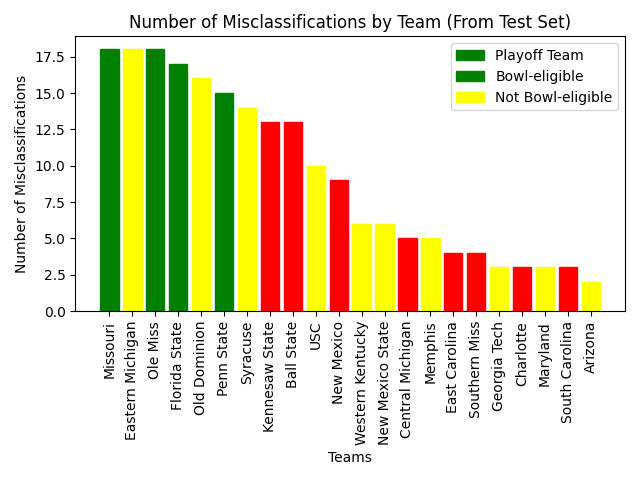
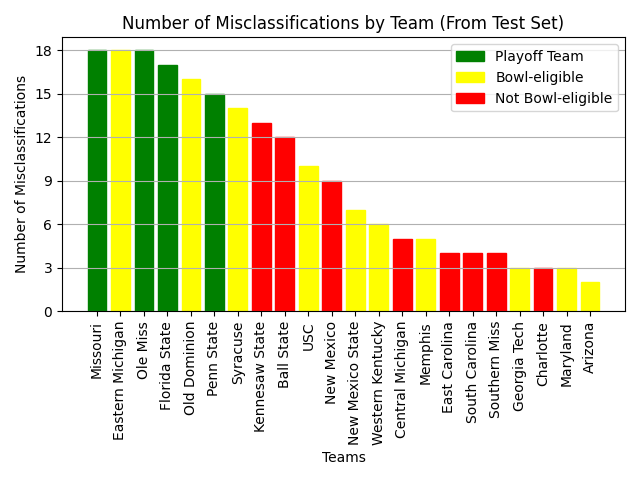
Fixed legen on Misclassifications Count graph

Changed region(s): [[0.0625, 0.0312, 0.9688, 0.9688]]

diff --git a/src/graphs.py b/src/graphs.py
@@ -1,4 +1,5 @@
 from matplotlib.colors import ListedColormap
+from matplotlib.ticker import MultipleLocator
 from sklearn.metrics import confusion_matrix
 import seaborn as sns
 import matplotlib.pyplot as plt
@@ -35,11 +36,22 @@ def misclassification_count(m: list):
         elif clf == 2:
             bar.set_color('green')
 
-    plt.legend(bars[::2], ['Playoff Team', 'Bowl-eligible', 'Not Bowl-eligible'])
+    #plt.legend(bars[::2], ['Playoff Team', 'Bowl-eligible', 'Not Bowl-eligible'])
+
+    # handles = [plt.Line2D([0], [0], marker='o', color='b', markerfacecolor='k', markersize=10, label='Playoff Team'),
+    #            plt.Line2D([0], [0], marker='^', color='y', markerfacecolor='k', markersize=10, label='Bowl-eligible'),
+    #            plt.Line2D([0], [0], marker='^', color='r', markerfacecolor='k', markersize=10, label='Not Bowl-eligible')]
+    # plt.legend(handles=handles)
+
+    legend_elements = [plt.Rectangle((0, 0), 1, 1, color=color) for color in ['green', 'yellow', 'red']]
+    plt.legend(legend_elements, ['Playoff Team', 'Bowl-eligible', 'Not Bowl-eligible'])
+
     plt.xlabel('Teams')
     plt.ylabel('Number of Misclassifications')
     plt.title('Number of Misclassifications by Team (From Test Set)')
     plt.xticks(rotation=90)
+    plt.gca().yaxis.set_major_locator(MultipleLocator(3))
+    plt.grid(axis='y')
     plt.tight_layout()
     plt.savefig(f"../data/plots/misclassifications_count.png")
     plt.close()
